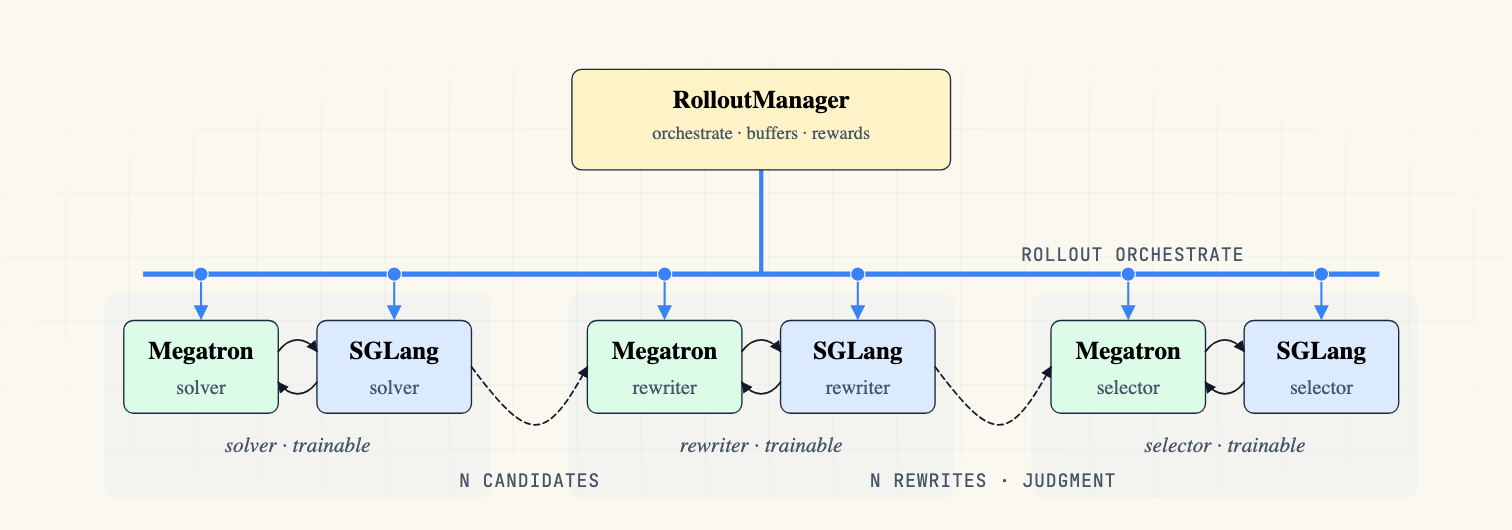
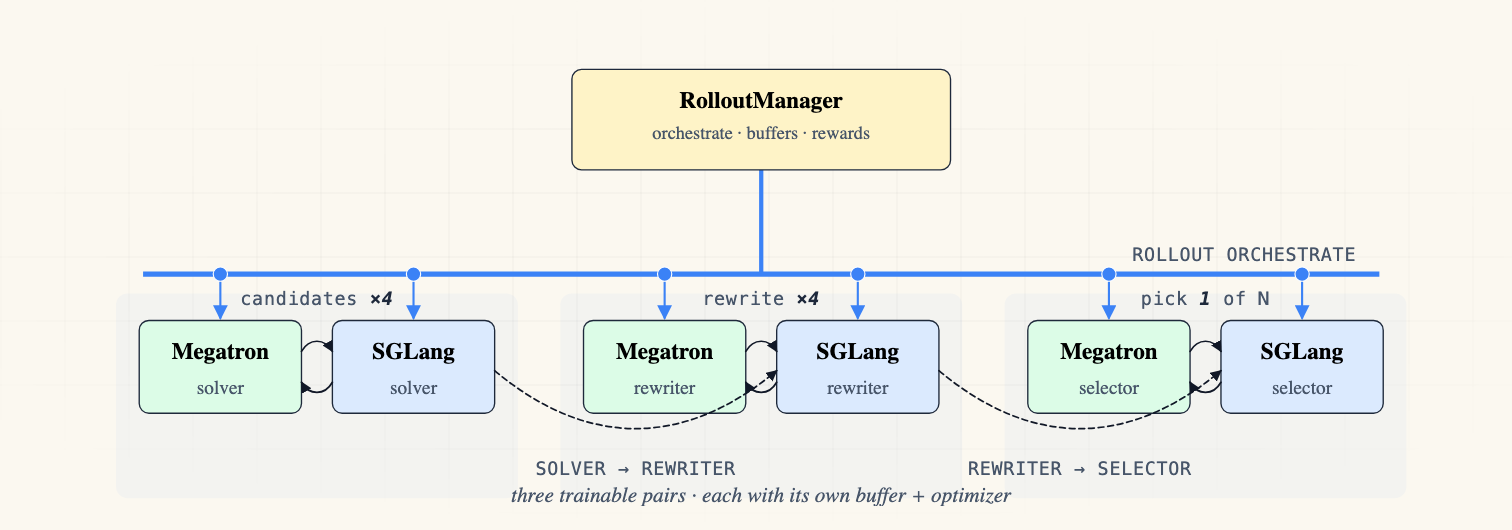
docs(README): restructure Use Cases into PPO/OPD/multi-agent with schema + framework figures
- Group use cases into three families; expand multi-agent to 7 examples
  (debate, solver+summarizer, generator+verifier, orchestrator+subagents,
  cooperative swarm, shared-state peers, solver-rewriter-selector)
- Show conceptual schema (left) + slimeⁿ framework view (right) per multi-agent example
- Add one-line description and code link to each use case
- Shorten Experimental Results to the two reward charts
- Add schema/arch figures for the new examples

diff --git a/README.md b/README.md
@@ -24,32 +24,99 @@ With this unified schema, the same framework can support on-policy distillation,
 
 ## Use Cases
 
-Once **policy** is the unit of ownership — weights, optimizer, buffer, checkpoint — a wide class of multi-role RL systems becomes natural to express. The schema already covers:
+Once **policy** is the unit of ownership — weights, optimizer, buffer, checkpoint — a wide class of multi-role RL systems becomes natural to express. The schema already covers three families, all composed from the same three primitives.
+
+For each multi-agent use case below, the left figure is the **conceptual schema** (the data flow between roles) and the right figure is the **slime<sup>n</sup> framework** view (the Megatron / SGLang policy layout at runtime). PPO and OPD show the framework view only.
+
+### 1. Asymmetric PPO
+
+Actor and critic are separate policies, each with its own architecture, optimizer, and buffer — the critic a standalone Megatron value head with no SGLang engine. Code: [`examples/multi_policy_ppo`](examples/multi_policy_ppo).
+
+| |
+|:---:|
+| ![Asymmetric PPO](./examples/multi_policy_ppo/imgs/arch.png) |
+| **Asymmetric PPO** (actor + critic) |
+
+### 2. On-policy Distillation
+
+A trainable student paired with a frozen teacher that returns per-token logprobs for a reverse-KL term. The teacher runs on either backend. Code: [`examples/multi_policy_opd_megatron`](examples/multi_policy_opd_megatron) · [`examples/multi_policy_opd_sglang`](examples/multi_policy_opd_sglang).
 
 | | |
 |:---:|:---:|
-| ![OPD — Megatron teacher](./examples/multi_policy_opd_megatron/imgs/arch.png) | ![OPD — SGLang teacher](./examples/multi_policy_opd_sglang/imgs/arch.png) |
-| **OPD — Megatron teacher** | **OPD — SGLang teacher** |
-| ![Asymmetric PPO](./examples/multi_policy_ppo/imgs/arch.png) | ![Solver + Summarizer](./examples/multi_policy_solver_summarizer/imgs/arch.png) |
-| **Asymmetric PPO** (actor + critic) | **Solver + Summarizer** |
-| ![Multi-Agent Debate](./examples/multi_policy_multiagent_debate/imgs/arch.png) | ![Cooperative Swarm](./examples/multi_policy_exam_swarm_rl/imgs/arch.png) |
-| **Multi-Agent Debate** | **Cooperative Swarm** |
-| ![Solver-Rewriter-Selector](./examples/multi_policy_solver_rewriter_selector/imgs/arch.png) | |
-| **Multi-Agent** (solver + rewriter + selector) | |
+| ![On-policy Distillation — Megatron teacher](./examples/multi_policy_opd_megatron/imgs/arch.png) | ![On-policy Distillation — SGLang teacher](./examples/multi_policy_opd_sglang/imgs/arch.png) |
+| **On-policy Distillation — Megatron teacher** | **On-policy Distillation — SGLang teacher** |
 
-*Each use case above composed from the three primitives.*
+### 3. Multi-Agent Systems (Multiple policies)
 
-Natural extensions of the same primitives — actor + judge, actor + verifier + repair policy, red-team / blue-team, teacher cascades, ensemble critics, self-play, curriculum generators, specialist routing — fall out of the policy abstraction without new framework code.
+Multiple trainable policies cooperating in a single run — debate, candidate generation + synthesis, cooperative swarms, generator/verifier loops, orchestrator + subagents, shared-state rounds, and staged solver pipelines.
+
+**3.1 Multi-Agent Debate**
+
+N generator agents propose independent answers, then in later rounds each critic agent revises its own answer against a summary of the other agents' responses, with the majority-vote answer as the only training signal. Code: [`examples/multi_policy_multiagent_debate`](examples/multi_policy_multiagent_debate).
+
+| schema | slime<sup>n</sup> |
+|:---:|:---:|
+| ![Debate schema](./examples/multi_policy_multiagent_debate/imgs/schema.png) | ![Debate framework](./examples/multi_policy_multiagent_debate/imgs/arch.png) |
+
+**3.2 Solver + Summarizer**
+
+The solver generates N candidate solutions per prompt and the summarizer synthesizes them into a single final answer, with both policies trained jointly on their own correctness rewards plus group reward shaping. Code: [`examples/multi_policy_solver_summarizer`](examples/multi_policy_solver_summarizer).
+
+| schema | slime<sup>n</sup> |
+|:---:|:---:|
+| ![Solver+Summarizer schema](./examples/multi_policy_solver_summarizer/imgs/schema.png) | ![Solver+Summarizer framework](./examples/multi_policy_solver_summarizer/imgs/arch.png) |
+
+**3.3 Generator + Verifier**
+
+The generator answers, the verifier critiques, and the generator revises with its round-1 answer carried forward — two trainable policies looping answer → critique → revise. Code: [`examples/multi_policy_generator_verifier`](examples/multi_policy_generator_verifier).
+
+| schema | slime<sup>n</sup> |
+|:---:|:---:|
+| ![Generator+Verifier schema](./examples/multi_policy_generator_verifier/imgs/schema.png) | ![Generator+Verifier framework](./examples/multi_policy_generator_verifier/imgs/arch.png) |
+
+**3.4 Orchestrator + Subagents**
+
+An orchestrator plans and dispatches the prompt to several subagents pursuing different approaches, then synthesizes their returned results into a final answer. Code: [`examples/multi_policy_orchestrator_subagent`](examples/multi_policy_orchestrator_subagent).
+
+| schema | slime<sup>n</sup> |
+|:---:|:---:|
+| ![Orchestrator+Subagent schema](./examples/multi_policy_orchestrator_subagent/imgs/schema.png) | ![Orchestrator+Subagent framework](./examples/multi_policy_orchestrator_subagent/imgs/arch.png) |
+
+**3.5 Cooperative Swarm**
+
+Eight independent agents answer the same prompt in parallel, blending a per-agent reward from self-GRPO, swarm EMA pass-rate, and peer ranking into a single advantage. Code: [`examples/multi_policy_exam_swarm`](examples/multi_policy_exam_swarm).
+
+| schema | slime<sup>n</sup> |
+|:---:|:---:|
+| ![Swarm schema](./examples/multi_policy_exam_swarm/imgs/schema.png) | ![Swarm framework](./examples/multi_policy_exam_swarm/imgs/arch.png) |
+
+**3.6 Shared-State Peers**
+
+Two peers alternately read from and write to a versioned shared state across rounds, each round's updated state feeding both peers in the next. Code: [`examples/multi_policy_shared_state`](examples/multi_policy_shared_state).
+
+| schema | slime<sup>n</sup> |
+|:---:|:---:|
+| ![Shared-State schema](./examples/multi_policy_shared_state/imgs/schema.png) | ![Shared-State framework](./examples/multi_policy_shared_state/imgs/arch.png) |
+
+**3.7 Solver-Rewriter-Selector**
+
+The solver emits N candidates, the rewriter refines them after seeing all N, and the selector picks the single best answer out of the N. Code: [`examples/multi_policy_solver_rewriter_selector`](examples/multi_policy_solver_rewriter_selector).
+
+| schema | slime<sup>n</sup> |
+|:---:|:---:|
+| ![Solver-Rewriter-Selector schema](./examples/multi_policy_solver_rewriter_selector/imgs/schema.png) | ![Solver-Rewriter-Selector framework](./examples/multi_policy_solver_rewriter_selector/imgs/arch.png) |
 
 
-## Features
+
+
+## Implementation Details
 
 - **`train_multi_policy.py`** — driver for n≥1 trainable policies. Replaces `train.py` for multi-policy runs.
 - **YAML-driven configs** — `--config <path>.yaml`. Per-policy fields (parallelism, batching, optimizer, loss, paths, Megatron numerical / dropout, `log_probs_chunk_size`) live in the YAML; cluster sizing is derived from policies. See [`slime/utils/policy_config.py`](slime/utils/policy_config.py).
 - **Per-policy buffers (split mode)** — each policy trains on its own samples, tagged via `Sample.policy_name`.
 - **Per-policy weight sync** — serialized push from each Megatron actor to its paired sglang engine.
 
-## Multi-Policy YAML Schema
+## Multi-Policy YAML Config
 
 Multi-policy runs are defined by a single YAML file passed with `--config`. The top-level `policies` list is the source of truth for the run composition: each entry declares one policy's identity, trainability, checkpoints, buffer routing, GPU slice, Megatron training settings, and optional SGLang engine settings. Policy names must be unique, and each paired policy gets a 1:1 SGLang server with the same name.
 
@@ -106,50 +173,18 @@ The `megatron:` block is flattened into the per-policy Megatron argument namespa
 
 Cluster sizing is derived from the YAML. Without `--colocate`, total GPUs are `sum(megatron_num_nodes * num_gpus_per_node) + sum(sglang_num_nodes * num_gpus_per_node)` across active policies. With `--colocate`, slime uses the larger of the Megatron and SGLang sides. A frozen standalone Megatron teacher sets `trainable: false` and `sglang_num_nodes: 0`.
 
-## Examples
+## Experimental Results
 
-Three workloads exercise the multi-policy schema — two paired-pipeline cooperations (debate, solver+summarizer) and a frozen standalone Megatron actor (OPD teacher). Standalone SGLang engines (judge / reward model variants) are supported by the same schema; example pending.
+Two multi-agent cooperations trained on DAPO-math-17k. In both, every policy carries its own optimizer and split buffer, and rewards rise jointly.
 
-### 1. Multi-Policy Multi-Agent debate — generator + critic
-
-Two trainable paired policies implement a paper-aligned debate workflow. In round 0, N `generator` agents propose independent answers. In later rounds, an untracked summarize subroutine summarizes the other agents' previous responses, and each `critic` agent updates its own answer from that summary plus its own prior response.
-
-Rewards are computed from the final critic responses: the system majority-votes a final answer `ŷ`; round-0 generator samples are rewarded for matching `ŷ`, and each critic trajectory receives reward 1 when that agent's final critic answer matches `ŷ`. The dataset gold label is intentionally ignored in this example.
-
-Both `generator` and `critic` are trainable paired policies (Megatron + SGLang). The summarize step is routed through the generator SGLang engine, but its samples are not added to a training buffer. Code: [`examples/multi_policy_multiagent_debate`](examples/multi_policy_multiagent_debate).
+**Multi-Agent Debate** — generator + critic, with the ŷ majority vote over critic outputs as the only signal (gold label ignored). Code: [`examples/multi_policy_multiagent_debate`](examples/multi_policy_multiagent_debate).
 
 ![multi-agent debate training reward](./examples/multi_policy_multiagent_debate/imgs/reward.png)
 
-*Paper-aligned debate on DAPO-math-17k, ground-truth label intentionally ignored. The ŷ majority vote over critic outputs is the only training signal; both generator and critic rewards rise round by round.*
-
-### 2. Multi-Policy Solver + Summarizer — candidate generation + final answer synthesis
-
-Two trainable paired policies cooperate on math problems. The `solver` policy generates N candidate solutions in parallel. The `summarizer` policy then sees all N solver candidates and synthesizes a final answer in the standard `Answer: \boxed{...}` format.
-
-Both policies train on split buffers and receive direct RLVR correctness rewards on their own completions. The example also applies group reward shaping from the summarizer phase: if the mean summarizer reward is high, both roles are upweighted; otherwise both roles are downweighted.
-
-Both `solver` and `summarizer` are trainable paired policies (Megatron + SGLang). Code: [`examples/multi_policy_solver_summarizer`](examples/multi_policy_solver_summarizer).
+**Solver + Summarizer** — solver emits N candidates, summarizer synthesizes a final `\boxed{...}` answer; both get RLVR correctness rewards plus summarizer-phase group shaping. Code: [`examples/multi_policy_solver_summarizer`](examples/multi_policy_solver_summarizer).
 
 ![solver + summarizer training reward](./examples/multi_policy_solver_summarizer/imgs/reward.png)
 
-*Solver and summarizer trained together in a single run on DAPO-math-17k — each policy carries its own optimizer and buffer; both rewards rise jointly.*
-
-### 3. OPD — on-policy distillation (student + frozen teacher)
-
-Trainable **student** generates rollouts; frozen **teacher** runs forward-only on those rollouts and returns per-token logprobs that feed a reverse-KL term into the student's loss. The `student` is a standard trainable paired policy (Megatron + SGLang). The schema admits two teacher backends, both frozen:
-
-- **Megatron teacher** — standalone Megatron actor, no SGLang engine. Recommended; its forward kernels match the student's training-time forward, keeping the KL noise floor low.
-- **SGLang teacher** — standalone SGLang engine, no Megatron actor. Cheaper deployment and supports a larger teacher, at the cost of a small kernel mismatch on the KL term.
-
-The teacher's `train()` returns `{"teacher_log_probs": ...}`. The driver merges all frozen-policy outputs into the student's `external_data`, which `train_actor` writes into `rollout_data` so `apply_opd_kl_to_advantages` can consume it.
-
-Code: [`examples/multi_policy_opd_megatron`](examples/multi_policy_opd_megatron) (Megatron-backend teacher). The SGLang-backend variant uses the same schema; example pending.
-
-### 4. PPO — asymmetric actor + critic
-
-Trainable **actor** (Qwen3-1.7B) generates rollouts; trainable **critic** (Qwen3-0.6B) runs `train_critic` on those rollouts and emits per-token `values` that feed PPO advantages into the actor's loss. The critic is a standalone trainable Megatron actor (`m✓ s✗`) — no SGLang engine, just a value head. Per-policy `megatron_model_args` lets actor and critic differ in architecture, which legacy single-policy PPO cannot do (`train.py + --critic-config-path` ties them to the same CLI-global `MODEL_ARGS`).
-
-Code: [`examples/multi_policy_ppo`](examples/multi_policy_ppo).
 
 ## Run
 